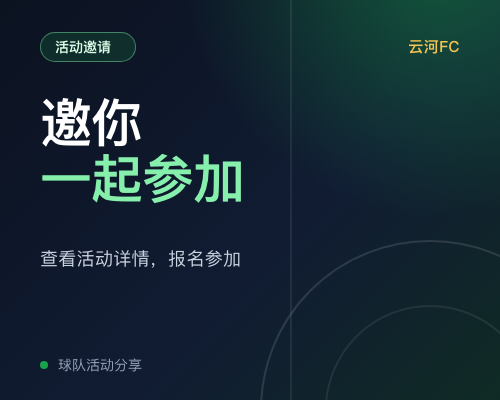
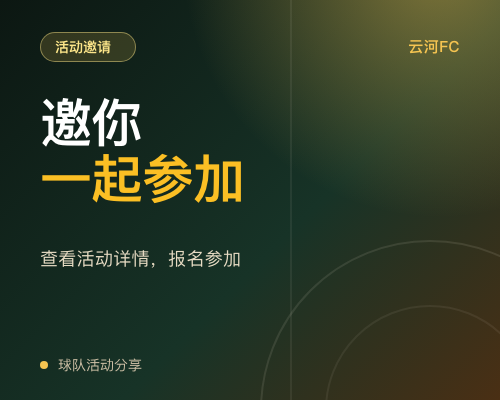
style(miniprogram): 活动分享静态封面改为暖色调（P-141）
- 保持比赛封面版式与字体，仅替换活动静态图配色为深绿到暖琥珀，标题强调与底部圆点改为金色
- 同步 02/06、CLAUDE.md 与小程序说明；动态 Canvas 封面不变

diff --git a/CLAUDE.md b/CLAUDE.md
@@ -3,7 +3,7 @@
 ## 0. 当前阶段
 
 - **设计冻结**：需求 v1.59；设计文档 01 v0.38、02 v1.10、03 v1.41、04 v0.42、05 v0.83、06 v2.59。
-- **评审通过**：P-01~P-141 已确认（P-141：小程序活动分享封面改为 5:4——活动详情加载后 Canvas 生成（活动名/日期时段/地点/已报名人数/报名截止/人均消费），失败回退包内静态品牌图 `assets/share-activity-invite.png`，封面未就绪时按钮显示「准备中…」；分享标题改为「<活动名> · 活动邀请」，沿用稳定 URL 不引入 token；P-140：小程序比赛邀请分享封面改为 5:4——按场次 Canvas 生成（标题/日期时段/场地/名额/报名截止/邀请有效期），失败回退包内静态品牌图 `assets/share-match-invite.png`，生成期间分享按钮禁用；P-139：小程序比赛详情新增「分享比赛」，复用 INV-03 生成比赛邀请并微信分享小程序邀请卡片，新增 MP13 比赛邀请落地页（按 C07 比赛邀请信息展示，登录/绑定后按 `inviteToken` 回跳，「去比赛」调用 INV-02 进入 MP04），INV-03 响应新增 `token`，接口数与权限码不变；C13/MP12 账本重构为「明细/统计」双视图——月份切换与支出/收入汇总卡、按日分组小计、关键字搜索，统计支持按周/月/年/自定义时间、支出/收入切换、笔数与环比、结余与环比、日/月分桶趋势图；新增 LED-13 日小计与 LED-14 统计，接口数 122→124、需求 ID 144→146，数据库无变更，不做支出预算；P-137：C13/MP12 账本数据展示改为对账单式汇总与右对齐流水行，余额为主数字并给出支出占收入比例，流水行摘要主导、移除行内收支标签；P-136：管理端账本流水摘要改为非必填，空值以空字符串落库、列保持 NOT NULL，LED-04 去掉 `@NotBlank`、LED-05 省略视为不修改；P-135：C13/MP12 账本筛选去除开始/结束日期，改为方向/分类/月份/自定义时间（MP12 收进单个「筛选」按钮与底部抽屉，与 MP10 对齐），月份与自定义范围互斥、默认不筛选，LED 契约不变（月份由前端换算为 `from`/`to`）；P-134：C01 首页「活动」按钮改为入口卡并置于账本入口上方；P-133：管理端会话有效期由 2 小时调整为 12 小时；P-132：C13 账本入口从「我的」页迁移到 C01 首页「最近比赛」下方，仅 `ledger:view:any` 可见；P-131：小程序账本入口从「我的」页迁移到首页「活动」下方（仅 `ledger:view:any` 且非待审核可见），C01/MP06 二期能力移除「球队账本」占位卡；P-130：MP10 范围独立为页面顶部与「筛选」按钮同排的分段控件（最近活动/已结束活动/全部，默认最近活动），筛选抽屉只保留类型/状态/月份/自定义时间，切换范围保留条件，重置只清条件；P-129：MP10 活动筛选改为单个「筛选」按钮与底部抽屉，与 MP02 对齐，抽屉含范围/类型/状态/月份/自定义时间与重置；P-128：C11/MP10 活动列表新增月份与自定义时间筛选（按活动开始时间，二者互斥、默认不筛选，月份限 2000-01 至 2100-12），ACT-01 新增 `month`/`startDate`/`endDate`；P-127：C11 活动列表移除「历史」范围，与 MP10 对齐，历史活动经「全部」查看；P-126：C11/MP10 新增「已结束活动」范围（已结束+已取消），ACT-01 新增 `scope=finished`；P-125：MP11 hero 元信息改为逐行展示；P-124：小程序端支持手机号+密码登录，复用 AUTH-04、不绑定 `mp_openid`、会话 Cookie 本地持久化；P-123：C11/MP10 活动卡已结束/已取消以禁用按钮占位，与报名中/报名截止对齐；P-122：C12/MP11 报名卡去掉报名时间/家属文案，人数文案去掉「（不含家属）」；P-121：活动人数上限必填、默认 50，不提供无上限，V19 回填存量 NULL；P-120：活动取消原因改为可选，B12/C12/MP11 三端不再强制填写；P-119：C12/MP11 报名卡显示已报名人数/上限；P-118：C12/MP11 活动详情展示报名队列，登录的正式球员与管理员可见；P-117：C11/MP10 最近活动改为展示所有报名中活动并按时间倒序分页；P-116：MP10 活动列表移除「历史」范围，仅保留最近活动/全部；P-115：B12 活动图片批量上传、逐张进度与超限弹窗；P-114：已取消活动可恢复为报名中/报名截止；P-113：已结束/已取消活动可编辑，B12 编辑按钮不置灰；P-112：B12 行操作拆出编辑按钮、「更多」改为「状态」并新增报名中；P-111：报名截止可恢复为报名中；P-110：已结束活动可重新开放为报名中/报名截止；P-109：C12/MP11 场地环境图片增加左右箭头切换；P-108：C12/MP11 支持管理员详情改状态；P-107：活动图片与头像单张上限均调整为 5MiB；P-106：活动多图最多 10 张，新增 activity_image 子表；P-105：活动允许携带家属开关 family_allowed；P-87：排行榜赛季下拉移除生涯累计选项；P-88：排行榜一致性核查与旧直链占位项；P-89：排行榜移除 Web 直链支持与验收口径；P-90：排行榜排名引擎反向宿主收敛；P-91：小程序排行榜改单行五列表格；P-92：活动与账本纳入本批；P-93：活动独立建模与状态机；P-94：活动字段、家属与分享；P-95：动态/相册顺延下一批；P-96：账本支持自定义分类；P-97：活动报名并发改用 Redis 分布式锁；P-98：球员可进 B 端只读分区，后台权限判定显式化；P-99：活动状态机与列表口径修订（已取消终态、复制新建、最近活动）；P-100：账本汇总支持方向/分类/球员/活动筛选；P-101：领域实体优先使用 MyBatis-Plus 注解；P-102：B12 支持活动时间范围筛选与编辑/复制图片回填；P-103：新增 LED-12 B 端只读分类别名；P-104：MP10 活动列表缺省筛选改为最近活动）；设计成果不再主动变更。
+- **评审通过**：P-01~P-141 已确认（P-141：小程序活动分享封面改为 5:4——活动详情加载后 Canvas 生成（活动名/日期时段/地点/已报名人数/报名截止/人均消费），失败回退包内静态品牌图 `assets/share-activity-invite.png`（活动暖色调，与比赛封面区分），封面未就绪时按钮显示「准备中…」；分享标题改为「<活动名> · 活动邀请」，沿用稳定 URL 不引入 token；P-140：小程序比赛邀请分享封面改为 5:4——按场次 Canvas 生成（标题/日期时段/场地/名额/报名截止/邀请有效期），失败回退包内静态品牌图 `assets/share-match-invite.png`，生成期间分享按钮禁用；P-139：小程序比赛详情新增「分享比赛」，复用 INV-03 生成比赛邀请并微信分享小程序邀请卡片，新增 MP13 比赛邀请落地页（按 C07 比赛邀请信息展示，登录/绑定后按 `inviteToken` 回跳，「去比赛」调用 INV-02 进入 MP04），INV-03 响应新增 `token`，接口数与权限码不变；C13/MP12 账本重构为「明细/统计」双视图——月份切换与支出/收入汇总卡、按日分组小计、关键字搜索，统计支持按周/月/年/自定义时间、支出/收入切换、笔数与环比、结余与环比、日/月分桶趋势图；新增 LED-13 日小计与 LED-14 统计，接口数 122→124、需求 ID 144→146，数据库无变更，不做支出预算；P-137：C13/MP12 账本数据展示改为对账单式汇总与右对齐流水行，余额为主数字并给出支出占收入比例，流水行摘要主导、移除行内收支标签；P-136：管理端账本流水摘要改为非必填，空值以空字符串落库、列保持 NOT NULL，LED-04 去掉 `@NotBlank`、LED-05 省略视为不修改；P-135：C13/MP12 账本筛选去除开始/结束日期，改为方向/分类/月份/自定义时间（MP12 收进单个「筛选」按钮与底部抽屉，与 MP10 对齐），月份与自定义范围互斥、默认不筛选，LED 契约不变（月份由前端换算为 `from`/`to`）；P-134：C01 首页「活动」按钮改为入口卡并置于账本入口上方；P-133：管理端会话有效期由 2 小时调整为 12 小时；P-132：C13 账本入口从「我的」页迁移到 C01 首页「最近比赛」下方，仅 `ledger:view:any` 可见；P-131：小程序账本入口从「我的」页迁移到首页「活动」下方（仅 `ledger:view:any` 且非待审核可见），C01/MP06 二期能力移除「球队账本」占位卡；P-130：MP10 范围独立为页面顶部与「筛选」按钮同排的分段控件（最近活动/已结束活动/全部，默认最近活动），筛选抽屉只保留类型/状态/月份/自定义时间，切换范围保留条件，重置只清条件；P-129：MP10 活动筛选改为单个「筛选」按钮与底部抽屉，与 MP02 对齐，抽屉含范围/类型/状态/月份/自定义时间与重置；P-128：C11/MP10 活动列表新增月份与自定义时间筛选（按活动开始时间，二者互斥、默认不筛选，月份限 2000-01 至 2100-12），ACT-01 新增 `month`/`startDate`/`endDate`；P-127：C11 活动列表移除「历史」范围，与 MP10 对齐，历史活动经「全部」查看；P-126：C11/MP10 新增「已结束活动」范围（已结束+已取消），ACT-01 新增 `scope=finished`；P-125：MP11 hero 元信息改为逐行展示；P-124：小程序端支持手机号+密码登录，复用 AUTH-04、不绑定 `mp_openid`、会话 Cookie 本地持久化；P-123：C11/MP10 活动卡已结束/已取消以禁用按钮占位，与报名中/报名截止对齐；P-122：C12/MP11 报名卡去掉报名时间/家属文案，人数文案去掉「（不含家属）」；P-121：活动人数上限必填、默认 50，不提供无上限，V19 回填存量 NULL；P-120：活动取消原因改为可选，B12/C12/MP11 三端不再强制填写；P-119：C12/MP11 报名卡显示已报名人数/上限；P-118：C12/MP11 活动详情展示报名队列，登录的正式球员与管理员可见；P-117：C11/MP10 最近活动改为展示所有报名中活动并按时间倒序分页；P-116：MP10 活动列表移除「历史」范围，仅保留最近活动/全部；P-115：B12 活动图片批量上传、逐张进度与超限弹窗；P-114：已取消活动可恢复为报名中/报名截止；P-113：已结束/已取消活动可编辑，B12 编辑按钮不置灰；P-112：B12 行操作拆出编辑按钮、「更多」改为「状态」并新增报名中；P-111：报名截止可恢复为报名中；P-110：已结束活动可重新开放为报名中/报名截止；P-109：C12/MP11 场地环境图片增加左右箭头切换；P-108：C12/MP11 支持管理员详情改状态；P-107：活动图片与头像单张上限均调整为 5MiB；P-106：活动多图最多 10 张，新增 activity_image 子表；P-105：活动允许携带家属开关 family_allowed；P-87：排行榜赛季下拉移除生涯累计选项；P-88：排行榜一致性核查与旧直链占位项；P-89：排行榜移除 Web 直链支持与验收口径；P-90：排行榜排名引擎反向宿主收敛；P-91：小程序排行榜改单行五列表格；P-92：活动与账本纳入本批；P-93：活动独立建模与状态机；P-94：活动字段、家属与分享；P-95：动态/相册顺延下一批；P-96：账本支持自定义分类；P-97：活动报名并发改用 Redis 分布式锁；P-98：球员可进 B 端只读分区，后台权限判定显式化；P-99：活动状态机与列表口径修订（已取消终态、复制新建、最近活动）；P-100：账本汇总支持方向/分类/球员/活动筛选；P-101：领域实体优先使用 MyBatis-Plus 注解；P-102：B12 支持活动时间范围筛选与编辑/复制图片回填；P-103：新增 LED-12 B 端只读分类别名；P-104：MP10 活动列表缺省筛选改为最近活动）；设计成果不再主动变更。
 - **本批范围**：队内活动 + 账本，票面见 `.scratch/team-activity-ledger/`（8 票）；增量决策按小步直接实施，发版以 RC 验收为准；动态/相册/视频顺延下一批。
 - **代码状态**：MVP 功能已全部实现。`backend/` 单部署单元覆盖 M01–M11 与横切支撑（认证/RBAC/邀请/Redis 会话/Outbox/Kafka、球员档案与球队页、比赛与状态机、报名/候补/递补、考勤与签到、事件与比分、阵容、分组、通知 NTF-01~04 + 7 类触发 + 90 天物理删除、审计查询与年度导出、系统设置、OSS 上传与签名读、真实短信、微信小程序登录（AUTH-20/21）、prod 配置 fail-fast 与保留任务、M15 队内活动（ACT-01~13、FIL-03，允许携带家属开关、最多 10 张且单张 5MiB 的活动图片、B12 批量上传与逐张进度、C 端详情管理员改状态且报名中/报名截止互转、已结束可重新开放、已取消可恢复、报名队列）与 M16 账本（LED-01~14、分类管理、按日小计与周期统计））；`frontend/` pnpm workspace 覆盖 C 端 C01–C10（含排行榜历史累计固定列）与 B 端 B02–B13（B01 已下线；含活动管理 B12、账本管理 B13），含 api-client/permissions/shared 与 Vitest + Playwright；`frontend/apps/miniprogram` 为微信小程序端（P-74~P-141，登录（微信自动登录 + 手机号+密码）、首页（对齐 C01，含管理后台票据入口与活动/账本入口）、比赛（对齐 C02）、球队（对齐 C04：赛季、头像/地区/星级、出场/进球/助攻）、我的（对齐 C06：五星半星身份卡、通知、我的报名与取消、账号安全）、资料编辑、比赛详情（对齐 C03：报名/取消/候补递补、签到、名单考勤、事件录入与本人编辑、阵容/分组只读、管理员状态修改、分享比赛邀请（5:4 动态封面，失败回退静态品牌图））、比赛邀请落地（MP13：C07 同口径信息、登录后接受 INV-02 进入比赛）、活动（MP10/MP11，MP10 为顶部范围分段（最近活动/已结束活动/全部，默认最近活动）+ 单个「筛选」按钮与抽屉（类型/状态/月份/自定义时间）、管理员详情改状态与图片左右箭头、5:4 分享封面）、账本（MP12：明细/统计双视图，月份切换、按日分组小计、关键字搜索、单个「筛选」按钮与抽屉（方向/分类/自定义时间）、周期统计与趋势）、排行榜（MP09，含生涯与历史累计固定列），进行中）；`deploy/`（Docker Compose、Nginx、Dockerfile、RUNBOOK）与 `.github/workflows/ci.yml`、`deploy.yml` 已建立。
 - **原型定位**：`prototype/` 仅演示交互与信息架构，不是生产代码；正式实现以设计文档为准。

diff --git a/docs/design/06.设计方案评审结果.md b/docs/design/06.设计方案评审结果.md
@@ -1883,7 +1883,7 @@
 - **决策**：
   - MP11 头部「分享活动」按钮沿用原生分享，分享目标仍为 `/pages/activity-detail/index?id=<id>`；标题由「<活动名> · 云河FC」改为「<活动名> · 活动邀请」。
   - 分享封面与比赛邀请同一品牌语言，5:4（500×400）：活动详情加载后用页面隐藏的 `type=2d` Canvas 绘制活动名（最多两行）、日期/时段、地点、已报名人数/上限、报名截止与人均消费（有则显示），底部按是否仍可报名显示「查看活动详情，报名参加」或「查看活动详情」。
-  - 封面未就绪时按钮以「准备中…」占位并禁用分享；静默刷新重新生成时保留旧封面直到新图替换；生成失败回退包内静态品牌图 `assets/share-activity-invite.png`（500×400）。
+  - 封面未就绪时按钮以「准备中…」占位并禁用分享；静默刷新重新生成时保留旧封面直到新图替换；生成失败回退包内静态品牌图 `assets/share-activity-invite.png`（500×400；与比赛封面同版式，使用活动暖色配色，不复用比赛静态图）。
   - 抽取 `utils/share-cover.ts` 承载封面尺寸、文本兜底、折行、圆角、标题与正文版式、页头/页脚、品牌背景、画布查询、生成回退与导出；隐藏画布样式收敛到 `styles/layout.wxss`；比赛与活动封面共用，不改变比赛封面行为。
-- **代价（已知并接受）**：动态封面依赖 Canvas 2D 与真机字体渲染，长标题最多两行并截断；已结束/已取消活动仍可分享，底部引导改为「查看活动详情」；包体增加约 113KB 静态图。
+- **代价（已知并接受）**：动态封面依赖 Canvas 2D 与真机字体渲染，长标题最多两行并截断；已结束/已取消活动仍可分享，底部引导改为「查看活动详情」；包体增加约 120KB 静态图。
 - **同步**：02 v1.10（MP11 分享封面）；06 v2.59；`CLAUDE.md`；小程序 `pages/activity-detail/*`、`pages/match-detail/*`（分享封面生命周期收敛）、`styles/layout.wxss`（隐藏画布样式）、`utils/activity-share-cover.ts`、`utils/share-cover.ts`、`utils/match-invite-cover.ts`、测试（含页面级封面状态与共用 Canvas fake）与 `assets/share-activity-invite.png`；`frontend/apps/miniprogram/README.md`。需求、01/03/04/05、数据库与 `prototype/` 不变。

diff --git a/frontend/apps/miniprogram/README.md b/frontend/apps/miniprogram/README.md
@@ -11,7 +11,7 @@ frontend/apps/miniprogram/
 └── miniprogram/
     ├── app.ts|json|wxss
     ├── assets/share-match-invite.png  # 5:4 比赛邀请封面兜底图（500×400）
-    ├── assets/share-activity-invite.png  # 5:4 活动分享封面兜底图（500×400）
+    ├── assets/share-activity-invite.png  # 5:4 活动分享封面兜底图（500×400，暖色调）
     ├── styles/{tokens,controls,layout,match-card}.wxss  # --yh-* 变量、跨页按钮/pill、状态布局、比赛卡片、分享封面画布
     ├── templates/match-card.wxml      # MP03/MP06 共用的 C02 卡片结构
     ├── types/api.ts
